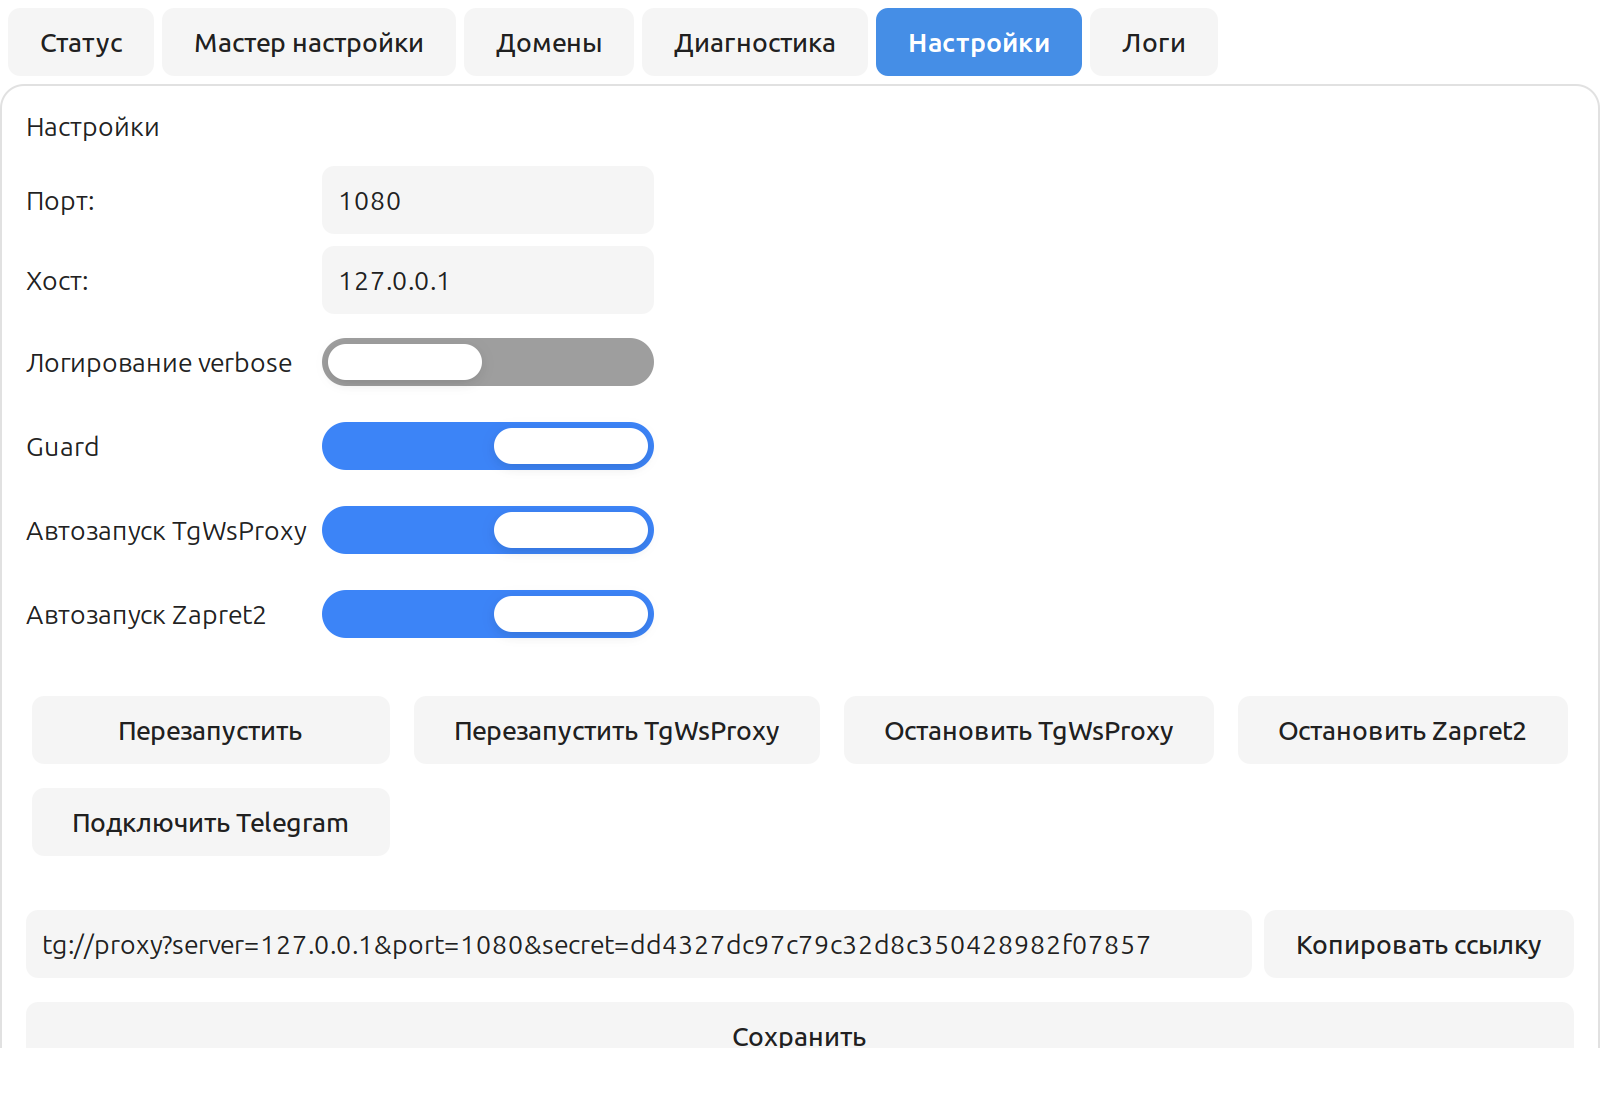
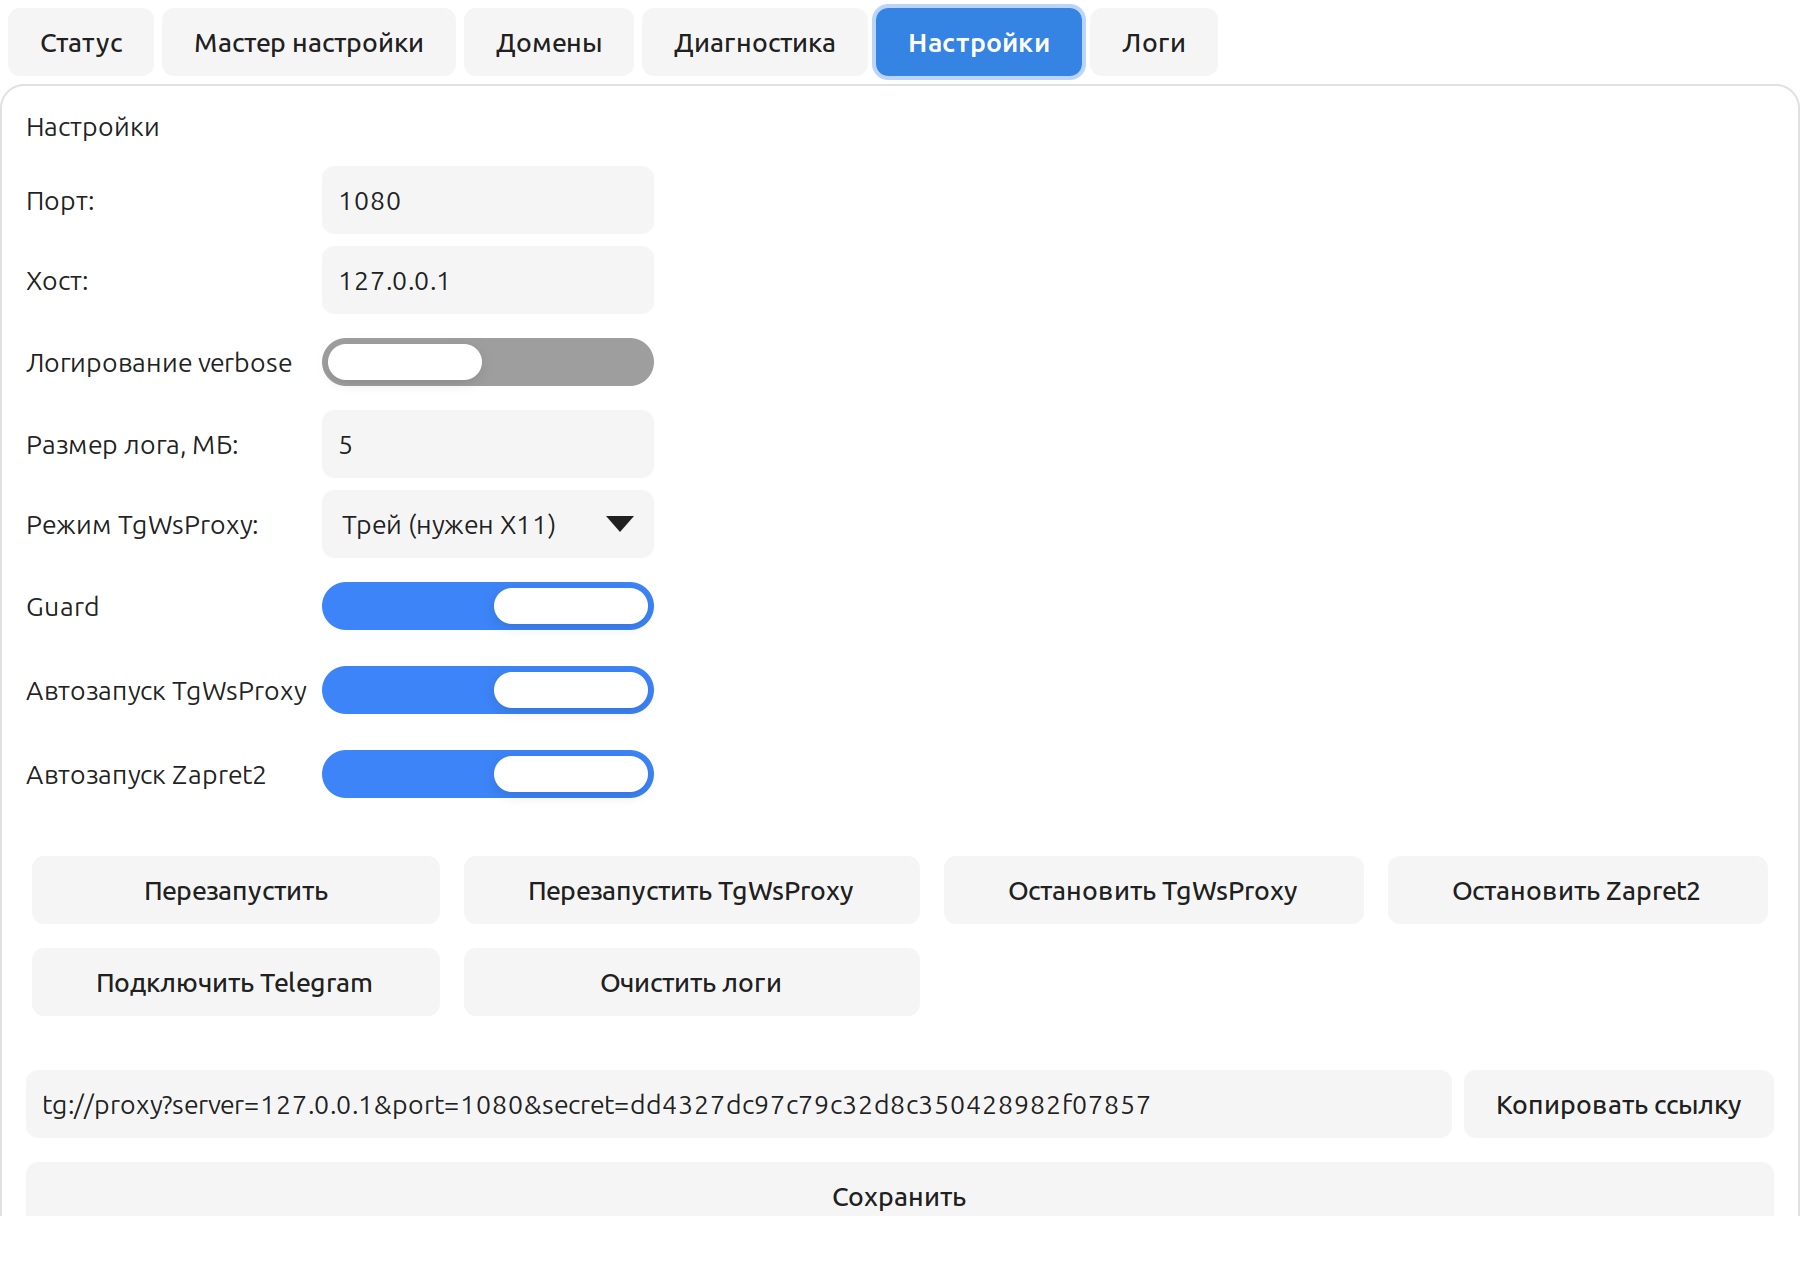
README: describe LinFix as a GUI panel with CLI, add screenshots

diff --git a/tests/test_helper.py b/tests/test_helper.py
@@ -206,7 +206,8 @@ class TgwsInstallActionTests(unittest.TestCase):
         self.assertEqual(payload["version"], "v1.11.4")
         self.assertEqual(payload["size"], 123)
         install.assert_called_once()
-        load.assert_called_once()
+        # Фоновые потоки GTK-тестов тоже читают state — проверяем свой вызов.
+        load.assert_any_call(Path("/var/lib/linfix/state.json"))
         save.assert_called_once()
 
     def test_http_url_rejected(self) -> None:

diff --git a/README.md b/README.md
@@ -1,151 +1,130 @@
-# LinFix Linux
+# LinFix
 
-CLI-утилита, которая превращает связку **zapret + TgWsProxy** в управляемый продукт:
-находит установленный zapret, держит CF-домены в его hostlist, ставит и запускает
-TgWsProxy, диагностирует поломки и защищает сеть от «шторма соединений».
+**Графическая панель для Linux**, которая превращает связку
+**zapret2** (обход DPI через NFQUEUE) + **TgWsProxy** (MTProto-прокси для Telegram)
+в управляемый продукт: поставил `.deb`, открыл окно, нажал «Далее» — работает.
 
-Полное ТЗ — в [SPEC.md](SPEC.md). Факты о целевой машине — в
-[docs/INVESTIGATION.md](docs/INVESTIGATION.md), принятые решения — в
-[docs/DECISIONS.md](docs/DECISIONS.md), отчёты по этапам — в
-`docs/M0-REPORT.md`, `docs/M1-REPORT.md`, `docs/M2-REPORT.md`,
-`docs/M3-REPORT.md`, `docs/M4-REPORT.md`, `docs/DESKTOP-ICONS.md`.
+![Статус](docs/screenshot-status.png)
 
-Проект переименован в **LinFix** (пакет `linfix`, команда `linfix`);
-[docs/DESKTOP-ICONS.md](docs/DESKTOP-ICONS.md) описывает ярлышки сервисов.
-В SPEC слово «LinFix» — основное название продукта (Linux-реализация — LinFix).
+## Как это выглядит
 
-## Статус
+Панель — это одно окно с закреплёнными разделами: **Статус**, **Мастер настройки**,
+**Домены**, **Диагностика**, **Настройки**, **Логи**. Плюс иконка в трее, которая
+меняет цвет по состоянию системы.
 
-- Реализованы **M0–M4** + переименование + ярлышки сервисов + **M6 (GTK3-панель)**,
-  подробности: `docs/M0-REPORT.md`, `docs/M1-REPORT.md`, `docs/M2-REPORT.md`,
-  `docs/M3-REPORT.md`, `docs/M4-REPORT.md`, `docs/M6-REPORT.md`.
-- **M5 (.deb)** — реализован: `make deb` → `dist/linfix_<version>_all.deb`,
-  установка `sudo apt install ./dist/linfix_0.1.3_all.deb` (см. `packaging/debian/README.md`).
-- CI: `.github/workflows/build-deb.yml` собирает `.deb` на push в `main` и
-  прикрепляет его к GitHub Release по тегу `v*`.
+| Мастер настройки | Настройки |
+|---|---|
+| ![Мастер](docs/screenshot-wizard.png) | ![Настройки](docs/screenshot-settings.png) |
 
-M6 (GTK3-панель): `make gui` или `linfix-gui` (после установки пакета); панель использует `linfix.api`.
+| Диагностика |
+|---|
+| ![Диагностика](docs/screenshot-doctor.png) |
 
-Реализованы **M0–M4**:
+## Что умеет
 
-- `linfix status` с реальным определением zapret/zapret2, hostlist и state;
-- `linfix doctor` (+ `--json`): служба, процесс, nft, домены, VPN, TgWsProxy;
-- `linfix domains list|test|update`;
-- `domains update`: GitHub → декодер → merge → state → рестарт → проверка →
-  откат при падении; есть `--dry-run`, `--offline`, `--force`, `--json`;
-- `/var/lib/linfix/state.json` хранит список доменов, хэш и версию TgWsProxy;
-- `linfix tgws install|config|link|start|stop|restart|status`:
-  HTTPS + SHA256, `/opt/tgwsproxy`, user-unit, безопасный конфиг;
-- `linfix guard check|status|on|off` — защита от шторма соединений;
-- `linfix setup` и `linfix update` — оркестрация настройки/обновлений;
-- `linfix profile list|set|clear` — профили сетей (матчинг по UUID, по умолчанию general);
-- идемпотентный merge hostlist с сохранением CRLF и бэкапом;
-- `linfix-helper` с белым списком действий и валидацией путей;
-- unit-тесты (stdlib `unittest`, совместимы с pytest).
+- **Мастер настройки** — пять шагов «Далее»: проверка системы → установка
+  zapret2 из GitHub → установка TgWsProxy из GitHub → CF-домены → автозапуск.
+  Пароль спрашивается только на привилегированных шагах (polkit/pkexec).
+- **Статус** — служба, процесс nfqws2, очередь/разметка, hostlist, домены,
+  TgWsProxy, порт и telegram-ссылка в одном экране.
+- **Домены** — обновление списка CF-доменов с GitHub, точечная проверка TLS,
+  добавление в hostlist с бэкапом и откатом при неудачном рестарте.
+- **Диагностика** — отчёт по системе: NFQUEUE, nftables, службы, hostlist,
+  TLS до CF-доменов, VPN/TUN, guard.
+- **Настройки** — порт, хост, verbose, размер лога, режим TgWsProxy
+  (трей/CLI), guard, автозапуск, управление службами, ссылка `tg://proxy`.
+- **Логи** — journalctl обеих служб + хвост `proxy.log`, с поиском.
+- **Трей** — цвет иконки отражает состояние, меню управляет службами.
 
-Профили сетей реализованы; пакет `.deb` собирается через `make deb` (M5).
+## Установка
 
-## Установка из .deb (для пользователя)
+### Из .deb
 
 ```bash
-make deb                              # собрать пакет
-sudo apt install ./dist/linfix_0.1.3_all.deb
-linfix-gui                            # или запустить LinFix из меню
+sudo apt install ./linfix_0.1.3_all.deb
 ```
 
-Далее — вкладка **«Мастер настройки»** и «Далее» по шагам:
-проверка → zapret2 из GitHub → TgWsProxy из GitHub → CF-домены → автозапуск.
-Пароль polkit/sudo запрашивается только на привилегированных шагах.
+Затем запустите **LinFix** из меню (или `linfix-gui`), откройте
+**«Мастер настройки»** и нажимайте «Далее».
 
-## Применение доменов
+Зависимости ставятся через apt: `python3-gi`, `gir1.2-gtk-3.0`, `nftables`,
+`curl`, `ca-certificates`, `git`, `pkexec`, `systemd`.
+
+### Из исходников
 
 ```bash
-linfix domains update --dry-run   # показать план, ничего не менять
-linfix domains update             # нужен root: helper через pkexec/sudo
-linfix domains update --offline   # использовать state/fallback без GitHub
+git clone https://github.com/smartor777-sketch/LinFix.git
+cd LinFix
+make test     # 202 теста
+make gui      # запуск панели без установки
+make deb      # → dist/linfix_<version>_all.deb
 ```
 
-При изменении hostlist helper делает бэкап, перезапускает zapret, проверяет
-`active` и живой `nfqws`/`nfqws2`. Если проверка не прошла — hostlist
-откатывается из бэкапа, а причина пишется в state и выводится в CLI.
+## Два режима TgWsProxy
 
-## Запуск без установки
-
-```bash
-PYTHONPATH=src python3 -m linfix.cli --help
-PYTHONPATH=src python3 -m linfix.cli status
-PYTHONPATH=src python3 -m linfix.cli doctor
-```
-
-## GTK3-панель (M6, через PyGObject)
-
-```bash
-make gui        # PYTHONPATH=src python3 -m linfix.gtk.main
-```
-
-Панель: `linfix-gui` (при установке пакета), или из меню «LinFix»
-(`~/.local/share/applications/linfix.desktop`). Панель строится только поверх
-`linfix.api`; привилегированные действия — через `pkexec /usr/libexec/linfix-helper`.
-
-Тесты на панель: `tests/test_gtk.py` (установленGTK3 + трей).
-
-## Тесты
-
-В этой системе нет `pip`/`pytest`, поэтому тесты написаны на stdlib `unittest`
-и одновременно совместимы с pytest:
-
-```bash
-make test
-# или
-PYTHONPATH=src python3 -m unittest discover -s tests -t . -v
-```
-
-Сейчас: **169 тестов**, все проходят.
-
-## Безопасность
-
-- Перед любой правкой `/opt/zapret2/config` и hostlist — снимок с меткой времени
-  (`scripts/backup-zapret.sh`, либо `linfix.util.backup_file`).
-- Привилегированные действия — только через `linfix-helper` с белым списком
-  действий и канонизацией путей (никакого `shell=True`).
-- `linfix` не создаёт собственных nftables-правил: он управляет только тем,
-  что создал установщик zapret.
-
-## Режимы TgWsProxy: trey и CLI
-
-TgWsProxy бывает двух видов, и LinFix умеет оба:
+TgWsProxy существует в двух видах, и LinFix поддерживает оба:
 
 | | `tray` | `cli` |
 |---|---|---|
-| X11 / DISPLAY | **нужен** | **не нужен** |
-| Трей-меню | есть | нет |
-| Годится для | десктопа | сервера, headless, SSH |
+| X11 / `DISPLAY` | нужен | **не нужен** |
+| Иконка в трее | есть | нет |
+| Для чего | десктоп | сервер, SSH, headless |
 
-Выбор — в «Настройки → Режим TgWsProxy» или:
+Переключение — в **«Настройки → Режим TgWsProxy»** или из терминала:
 
 ```bash
-linfix tgws config --mode cli     # headless-сервер
-linfix tgws config --mode tray    # обычный десктоп
+linfix tgws config --mode cli
 linfix tgws restart
 ```
 
-В режиме `cli` LinFix скачивает исходники TgWsProxy в `/opt/tgwsproxy/src`
-и запускает прокси как обычный процесс:
+Порт, secret, `tg://`-ссылка и ротация лога общие для обоих режимов — они
+хранятся в `~/.config/TgWsProxy/config.json`. Если `DISPLAY` недоступен,
+LinFix сам выбирает `cli`.
 
-```
-python3 -m proxy.tg_ws_proxy --port 1080 --host 127.0.0.1 \
-    --log-file ~/.config/TgWsProxy/proxy.log --log-max-mb 5 \
-    --pool-size 4 --secret <из config.json>
-```
+## CLI (второй интерфейс)
 
-Порт, secret и размер лога берутся из того же `config.json`, поэтому
-`linfix tgws link` и панель показывают одну и ту же ссылку. Зависимости
-CLI-режима (в Debian/Ubuntu ставятся из apt):
+Вся функциональность панели доступна и из терминала — удобно для серверов
+и скриптов:
 
 ```bash
-sudo apt install python3-httpx python3-h2 python3-certifi python3-cryptography
+linfix status                  # сводка по компонентам
+linfix doctor                  # полная диагностика (+ --json)
+linfix domains update          # CF-домены → hostlist → рестарт
+linfix tgws install            # TgWsProxy из GitHub (SHA256)
+linfix tgws config --mode cli  # headless-режим
+linfix tgws link               # tg://proxy-ссылка
+linfix logs                    # журналы служб
+linfix setup                   # мастер настройки в терминале
 ```
 
-Если `DISPLAY` нет, а в конфиге выбран `tray`, LinFix сам переключается на
-`cli` — прокси всё равно поднимется. Обратно на `tray` без X11 переключиться
-нельзя: такой выбор проигнорируется до появления дисплея.
+Привилегированные операции идут через `linfix-helper` — отдельный бинарник
+с белым списком действий, вызываемый через pkexec и polkit-policy.
+
+## Логи и их размер
+
+- `~/.config/TgWsProxy/proxy.log` — ротация **5 МБ + 1 бэкап** (≈10 МБ).
+  Меняется в «Настройки → Размер лога, МБ» или
+  `linfix tgws config --log-max-mb 10`.
+- «Настройки → Очистить логи» удаляет `proxy.log` и его бэкап.
+- `journalctl` ограничен системно (`SystemMaxUse`, по умолчанию 500 МБ).
+
+## Безопасность
+
+- Скачивание только по HTTPS; бинарник TgWsProxy — с проверкой SHA256.
+- Список действий helper'а фиксирован, пути канонизируются и проверяются.
+- Конфиг TgWsProxy пишется с правами `0600`, изменения — с бэкапом.
+- В hostlist пишется помеченный блок; при неудачном рестарте — откат.
+
+## Структура
+
+```
+src/linfix/            api.py, cli.py, helper.py, tgws.py, zapret.py, …
+src/linfix/gtk/        GTK3-панель: окно, экраны, трей
+packaging/debian/      control, обёртки, postinst/prerm, сборка .deb
+data/                  polkit policy, systemd user-юниты, иконки
+tests/                 202 unit-теста (stdlib unittest)
+```
+
+## Лицензия
+
+MIT

diff --git a/packaging/debian/README.md b/packaging/debian/README.md
@@ -1,6 +1,6 @@
 # packaging/debian
 
-Сборка `.deb`-пакета LinFix.
+Сборка `.deb`-пакета LinFix — графической панели (GTK3) с CLI.
 
 ## Сборка
 
